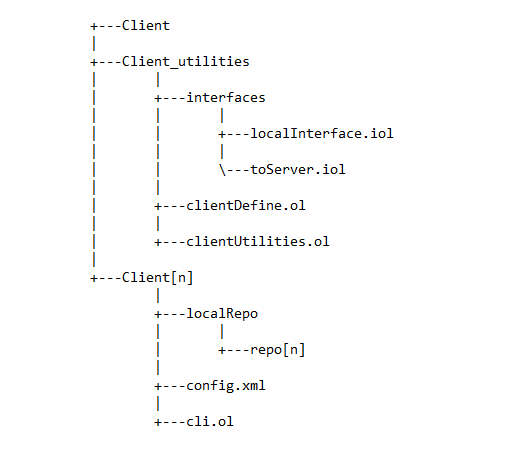
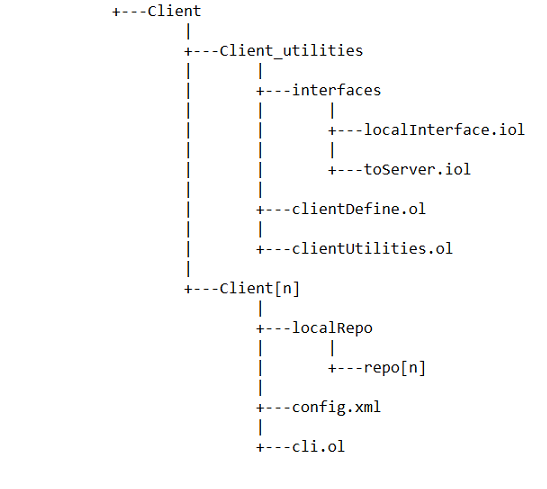
Aggiunta pull e push e modificata struttura client/server

diff --git a/REPORT.md b/REPORT.md
@@ -241,21 +241,65 @@ Client:
    2) Si invia la richiesta di incremento della variabile globale dei writers.
 
    3) Se la variabile è stata incrementata, si procede alla spedizione del file di versione,
-      per controllare se è maggiore o uguale di quella sul Server (solo in tal caso si può eseguire la push)
+      per controllare se è maggiore o uguale di quello sul Server (solo in tal caso si può eseguire la push).
 
    4) Successivamente si esegue la lettura di tutti gli altri files (ignorando quello di versione), si modifica
-      la repository globale da "localRepo" a "serverRepo" e si possono inviare sul Server, sovrascrivendoli
-      su quelli già presenti o creandoli se non esistono
+      la repository globale da "localRepo" a "serverRepo" e si inviano uno alla volta sul Server, sovrascrivendoli
+      su quelli già presenti o creandoli se non esistono.
 
+   5) Mentre il file di versione è gestito attraverso una richiesta di esso al Server, così da sovrascriverlo a 
+      quello locale, dopo che già è stato incrementato.
 
+   6) Infine si invia la richiesta di decremento della variabile globale dei writers, a operazione conclusa.
 
+Server:
+
+   1) Riceve la richiesta di incremento della variabile globale dei writers (all'interno di un "synchronized" per renderla
+      atomica) sono nel caso in cui il numero dei readers sia uguale a 0, altrimenti la push non può essere eseguita. 
+
+   2) Se la variabile dei writers è stata incrementata, riceve il file di versione dal Client e controlla se è maggiore o
+      uguale del suo, in tal caso incrementa la sua versione, all'interno di un "synchronized" per renderla atomica, e 
+      ritorna un messaggio di successo al Client.
+
+   3) Riceve uno alla volta i files dal Client, per sovrascriverli ai suoi o crearli se non sono presenti.
+
+   4) Riceve la richiesta dal Client di inviargli il file di versione incrementato.
+
+   5) Infine decrementa la variabile globale dei writers, inclusa in un "synchronized".
 
 ### PULL
 
+Comando per scaricare una repository specifica dal Server e sovrascriverla alla propria locale oppure crearla se non è presente.
 
+Client:
 
+   1) Si legge il file xml e si richiama il metodo registro, così da prelevare 
+      l'indirizzo del Server nel quale richiedere la pull.
 
+   2) Si invia la richiesta di incremento della variabile globale dei readers.
 
+   3) Se la variabile dei readers è stata incrementata, si invia il nome della repository desiderata al Server
+      e si aspetta la struttura di tutte le cartelle e sottocartelle.
+
+   4) Una volta conosciuta la struttura, si richiede un file alla volta al Server, che provvederà ad inviarli.
+
+   5) Quando arriva un file, si sostituisce la repository globale da "serverRepo" a "localRepo" e si creano le 
+      cartelle per i files che ne necessitano, in caso non esistano.
+
+   6) Infine si invia la richiesta di decremento della variabile globale dei readers, a operazione conclusa.
+
+Server:
+
+   1) Riceve la richiesta di incremento della variabile globale dei readers (all'interno di un "synchronized" per renderla
+      atomica) sono nel caso in cui il numero dei writers sia uguale a 0, altrimenti la pull non può essere eseguita.
+
+   2) Se la variabile dei readers è stata incrementata, riceve il nome della repository da inviare; se esiste ritorna un 
+      messaggio di successo insieme alla struttura delle cartelle contenute nella propria repository.
+
+   3) Riceve una alla volta la richiesta di un file da inviare, contenuto nella repository in questione, e lo spedisce al
+      Client.
+
+   4) Infine decrementa la variabile globale dei readers, inclusa in un "synchronized".
 
 
 ### GESTIONE READER-WRITER
